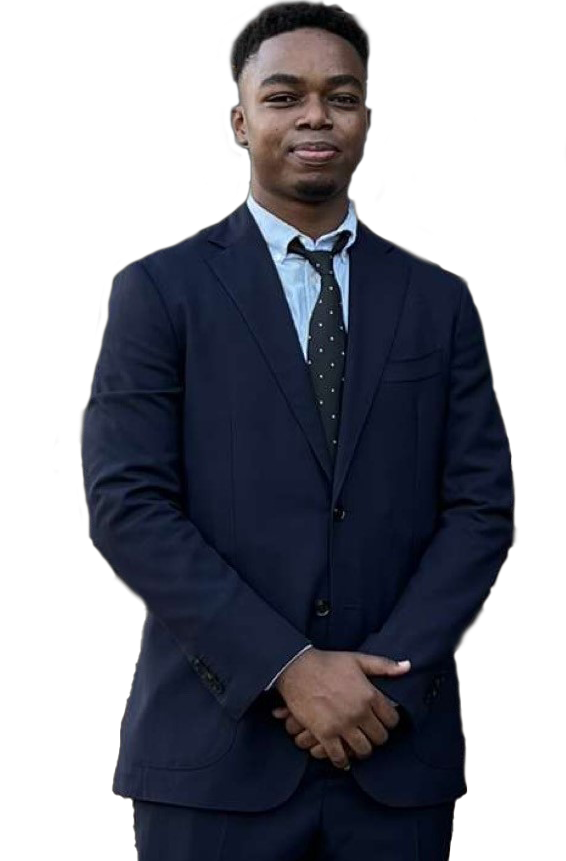
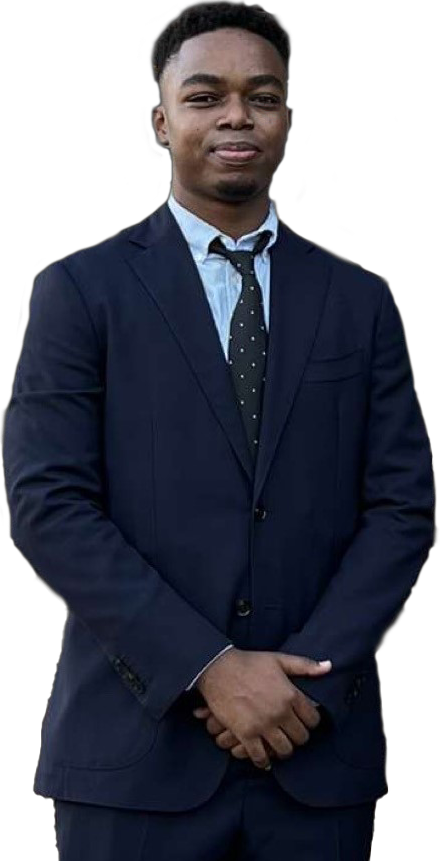
veranderingen

diff --git a/index.html b/index.html
@@ -1,6 +1,5 @@
 <!DOCTYPE html>
 <html lang="en">
-
 <head>
     <meta charset="UTF-8">
     <title>porfolio/home</title>
@@ -17,11 +16,10 @@
     <link rel="stylesheet" href="bootstrap-grid.rtl.css">
     <script defer src="portfolio.js"></script>
 </head>
-
 <body>
     <nav class="navbar navbar-expand-lg px-4 px-lg-0 m-0">
         <div class="container col-lg-12 px-0 py-4 py-md-4 py-lg-0">
-            <div class="col-9 col-lg-2 pb-lg-0 ps-lg-2 text-start d-flex align-items-center">
+            <div class="col-6 col-lg-2 pb-lg-0 ps-lg-2 text-start d-flex align-items-center">
                 <a href="index.html"><img src="assets/logo%20bertrand.png" alt="logo"
                         class="navbar-brand col-2 col-lg-2 "></a>
             </div>
@@ -41,19 +39,21 @@
     </nav>
     <header class="bg-color-balticsea header">
         <div class="container">
-            <div class="row align-items-center">
-                <div class="col-12 col-md-6 col-lg-4 pt-5 pt-md-0 pt-lg-0 col-md-6" id="home-image">
+            <div class="row align-items-center py-5">
+                <div class="col-6 col-md-4 col-lg-4 pt-3 pb-5 pt-md-0 pt-lg-0 text-center" id="home-image">
                     <img src="assets/bert%20proclamatie.png" alt="Header Image" class="img-fluid mt-lg-0">
                 </div>
-                <div class="col-12 col-md-6 col-lg-8 text-center text-md-start text-lg-center">
-                    <h1 class="header_h1 pb-lg-3 m-lg-0">Alain B. Etneo</h1>
-                    <h2 class="header_h2 pb-lg-4 m-lg-0">Graphic designer & <span>Webdeveloper</span></h2>
-                    <a href="#" class="text-decoration-none">
-                        <button class="col-md-2 py-2 px-6 text-center button">About me</button>
-                    </a>
-                    <a href="#">
-                        <button class="col-lg-2 py-lg-2 px-lg-5 text-center button">Skills</button>
-                    </a>
+                <div class="col-6 ps-md-4 col-md-7 col-lg-8 text-start text-md-start text-lg-center">
+                    <h1 class="header_h1 pb-lg-3 m-lg-0 col-md-12 col-12">Alain B. Etneo</h1>
+                    <h2 class="header_h2 pb-lg-4 m-lg-0 py-md-3  ">Graphic designer & <span>Webdeveloper</span></h2>
+                    <div class="buttons col-12 col-md-12">
+                        <a href="#" class="text-decoration-none">
+                            <button class="col-md-5 col-lg-4 col-5 py-1 py-lg-2 px-lg-4 text-center button">About me</button>
+                        </a>
+                        <a href="#">
+                            <button class="col-md-5 col-lg-4 col-5 py-1 py-lg-2 px-lg-5 text-center button">Skills</button>
+                        </a>
+                    </div>
                 </div>
             </div>
         </div>
@@ -62,7 +62,7 @@
         <div class="bg-color-orange py-lg-5">
             <div class="container">
                 <div class="row align-items-center">
-                    <div class="col-lg-12 text-center">
+                    <div class="col-lg-12 col-12 py-4 text-center">
                         <h1 class="header_h2">ABOUT ME</h1>
                     </div>
                     <div>
@@ -76,8 +76,8 @@
                             magnam
                             placeat possimus vero vitae. </p>
                     </div>
-                    <div class="text-center">
-                        <button class="col-lg-3 py-lg-2 px-lg-5 text-center button-2">Curriculum Vitae</button>
+                    <div class="text-center col-12 py-4">
+                        <button class="col-lg-3py-lg-2 px-lg-5 text-center button-2">Curriculum Vitae</button>
                     </div>
                 </div>
             </div>
@@ -85,61 +85,69 @@
         <div class="bg-color-balticsea py-lg-4">
             <div class="container">
                 <div class="row alignitems-center">
-                    <div class="col-lg-12 text-lg-center">
-                        <h2 class="header_h2">SKILLS</h1>
+                    <div class="col-lg-12 col-12 py-4 text-center text-lg-center">
+                        <h2 class="header_h2 m-0">SKILLS</h1>
                     </div>
-                    <div class="skills_container col-lg-3 py-lg-5 d-flex">
-                        <div class="inhoud bg-color-orange col-lg-2 align-items-lg-center rounded-5">
-                            <div class="photoshop col-lg-12 pt-lg-5 pb-lg-3 px-lg-2">
-                                <a href="#"><img src="assets/ps logo.png" alt="photoshop" class="img-fluid "></a>
+                    <div class="skills_container col-lg-3 col-12 py-4 py-lg-5">
+                        <div class="inhoud bg-color-orange col-lg-2 col-12 px-3 align-items-lg-center rounded-5 flex-lg-column d-flex">
+                            <div class="photoshop col-lg-12 col-2 ms-3 px-2 py-2 pt-lg-5 pb-lg-3 px-lg-2">
+                                <a href="#"><img src="assets/ps logo.png" alt="photoshop" class="img-fluid"></a>
                             </div>
-                            <div class="illustrator col-lg-12 py-lg-3 px-lg-2">
+                            <div class="illustrator col-lg-12 col-2 pe-2 py-2  py-lg-3 px-lg-2">
                                 <a href="#"><img src="assets/ai logo.png" alt="illustrator" class="img-fluid"></a>
                             </div>
-                            <div class="xd col-lg-12 py-lg-3 px-lg-2">
+                            <div class="xd col-lg-12 col-2 px-2 py-2  py-lg-3 px-lg-2">
                                 <a href="#"><img src="assets/xd logo.png" alt="xd" class="img-fluid"></a>
                             </div>
-                            <div class="figma col-lg-12 py-lg-3 px-lg-2">
+                            <div class="figma col-lg-12 col-2 px-2 py-2  py-lg-3 px-lg-2">
                                 <a href="#"><img src="assets/figma-logo.png" alt="xd" class="img-fluid"></a>
                             </div>
-                            <div class="webstorm col-lg-12 py-lg-3 px-lg-2">
+                            <div class="webstorm col-lg-12 col-2 px-2 py-2  py-lg-3 px-lg-2">
                                 <a href="#"><img src="assets/web logo.png" alt="webstorm" class="img-fluid"></a>
                             </div>
                         </div>
                     </div>
-                    <div class="text_container col-lg-8">
+                    <div class="text_container col-lg-8 col-12 py-5">
                         <div class="inhoud col-lg-12 align-items-lg-start">
-                            <div class="photoshop_h2 col-lg-12 py-lg-3">
-                                <h2 class="header_h2">Photoshop</h2>
+                            <div class="photoshop_h2 col-lg-12 col-12 py-lg-3">
+                                <h2 class="header_h2 text-center py-4">Photoshop</h2>
                             </div>
-                            <div id="carouselExampleIndicators" class="carousel slide col-lg-10" data-bs-ride="carousel">
-                                <div class="carousel-indicators">
-                                  <button type="button" data-bs-target="#carouselExampleIndicators" data-bs-slide-to="0" class="active" aria-current="true" aria-label="Slide 1"></button>
-                                  <button type="button" data-bs-target="#carouselExampleIndicators" data-bs-slide-to="1" aria-label="Slide 2"></button>
-                                  <button type="button" data-bs-target="#carouselExampleIndicators" data-bs-slide-to="2" aria-label="Slide 3"></button>
-                                  <button type="button" data-bs-target="#carouselExampleIndicators" data-bs-slide-to="3" aria-label="Slide 4"></button>
+                            <div id="carouselExampleIndicators" class="carousel slide col-lg-10"
+                                data-bs-ride="carousel">
+                                <div class="carousel-indicators col-9">
+                                    <button type="button" data-bs-target="#carouselExampleIndicators"
+                                        data-bs-slide-to="0" class="active" aria-current="true"
+                                        aria-label="Slide 1"></button>
+                                    <button type="button" data-bs-target="#carouselExampleIndicators"
+                                        data-bs-slide-to="1" aria-label="Slide 2"></button>
+                                    <button type="button" data-bs-target="#carouselExampleIndicators"
+                                        data-bs-slide-to="2" aria-label="Slide 3"></button>
+                                    <button type="button" data-bs-target="#carouselExampleIndicators"
+                                        data-bs-slide-to="3" aria-label="Slide 4"></button>
                                 </div>
                                 <div class="carousel-inner justify-content-center">
-                                  <div class="carousel-item active">
-                                    <img src="assets/ps-foto-1.png" class="d-flex img-fluid-2" alt="ps-foto-1">
-                                  </div>
-                                  <div class="carousel-item">
-                                    <img src="assets/ps-foto-2.png" class="d-flex img-fluid-3" alt="ps-foto-2">
-                                  </div>
-                                  <div class="carousel-item">
-                                    <img src="assets/ps-foto-3.png" class="d-flex img-fluid-4" alt="ps-foto-3">
-                                  </div>
-                                  <div class="carousel-item">
-                                    <img src="assets/ps-foto-4.png" class="d-flex img-fluid-5" alt="ps-foto-4">
-                                  </div>
+                                    <div class="carousel-item active ">
+                                        <img src="assets/ps-foto-1.png" class="d-flex img-fluid-2 " alt="ps-foto-1">
+                                    </div>
+                                    <div class="carousel-item">
+                                        <img src="assets/ps-foto-2.png" class="d-flex img-fluid-3" alt="ps-foto-2">
+                                    </div>
+                                    <div class="carousel-item">
+                                        <img src="assets/ps-foto-3.png" class="d-flex img-fluid-4" alt="ps-foto-3">
+                                    </div>
+                                    <div class="carousel-item">
+                                        <img src="assets/ps-foto-4.png" class="d-flex img-fluid-5" alt="ps-foto-4">
+                                    </div>
                                 </div>
-                                <button class="carousel-control-prev" type="button" data-bs-target="#carouselExampleIndicators" data-bs-slide="prev">
-                                  <span class="carousel-control-prev-icon" aria-hidden="true"></span>
-                                  <span class="visually-hidden">Previous</span>
+                                <button class="carousel-control-prev col-1" type="button"
+                                    data-bs-target="#carouselExampleIndicators" data-bs-slide="prev">
+                                    <span class="carousel-control-prev-icon" aria-hidden="true"></span>
+                                    <span class="visually-hidden">Previous</span>
                                 </button>
-                                <button class="carousel-control-next" type="button" data-bs-target="#carouselExampleIndicators" data-bs-slide="next">
-                                  <span class="carousel-control-next-icon" aria-hidden="true"></span>
-                                  <span class="visually-hidden">Next</span>
+                                <button class="carousel-control-next col-1" type="button"
+                                    data-bs-target="#carouselExampleIndicators" data-bs-slide="next">
+                                    <span class="carousel-control-next-icon" aria-hidden="true"></span>
+                                    <span class="visually-hidden">Next</span>
                                 </button>
                             </div>
                         </div>

diff --git a/index.css b/index.css
@@ -33,9 +33,9 @@ ul li a:hover{
 }
 /*-----HEADER-------*/
 .img-fluid{
-    width: 300%;
-    height: auto;
-    border-radius: 60%;
+    width: 400px;
+    height: 400px;
+    border-radius: 48%;
 }
 
 #home-image img{
@@ -139,6 +139,15 @@ p{
         display: none;
         height: 1200px;
     }
+    .header_h1{
+        font-size: 30px;
+    }
+    .button{
+        font-size: 15px;
+    }
+    .header_h2{
+        font-size: 20px;
+    }
     li a{
         font-size: 20px;
         font-weight: bold;
@@ -148,6 +157,26 @@ p{
     }
     header{
         padding-top: 100px;
+    }
+    .img-fluid-2{
+        padding-left: 50px;
+        width: auto;
+        height: 300px;
+    }
+    .img-fluid-3{
+        padding-left: 120px;
+        width: auto;
+        height: 300px;
+    }
+    .img-fluid-4{
+        padding-left: 50px;
+        width: 380px;
+        height: 300px;
+    }
+    .img-fluid-5{
+        padding-left: 20px;
+        width: 370px;
+        height: 300px;
     }
     #main_formulier{
         padding-top: 100px;
